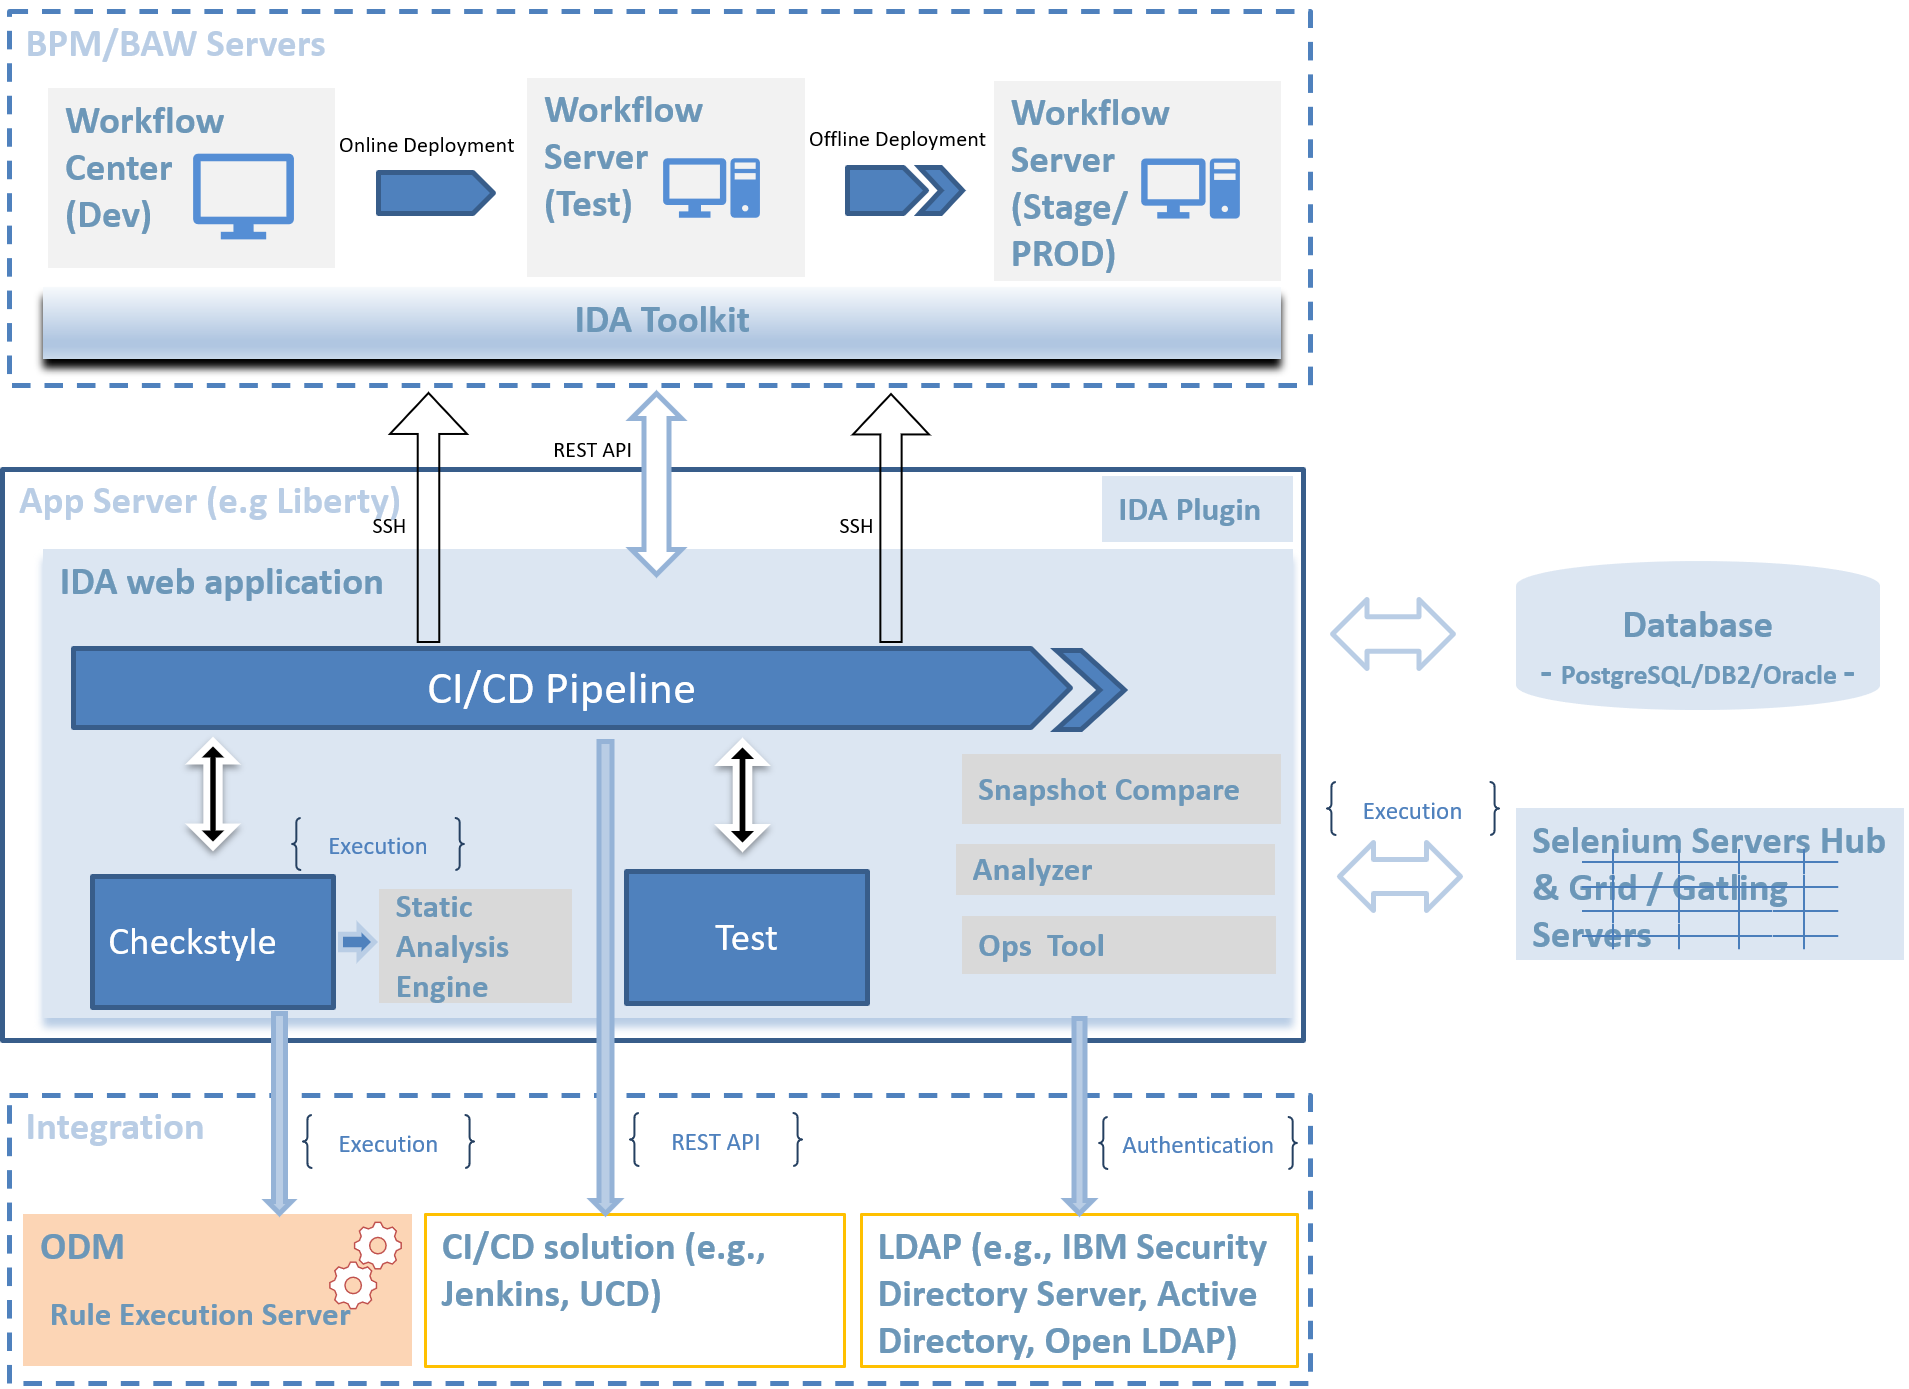
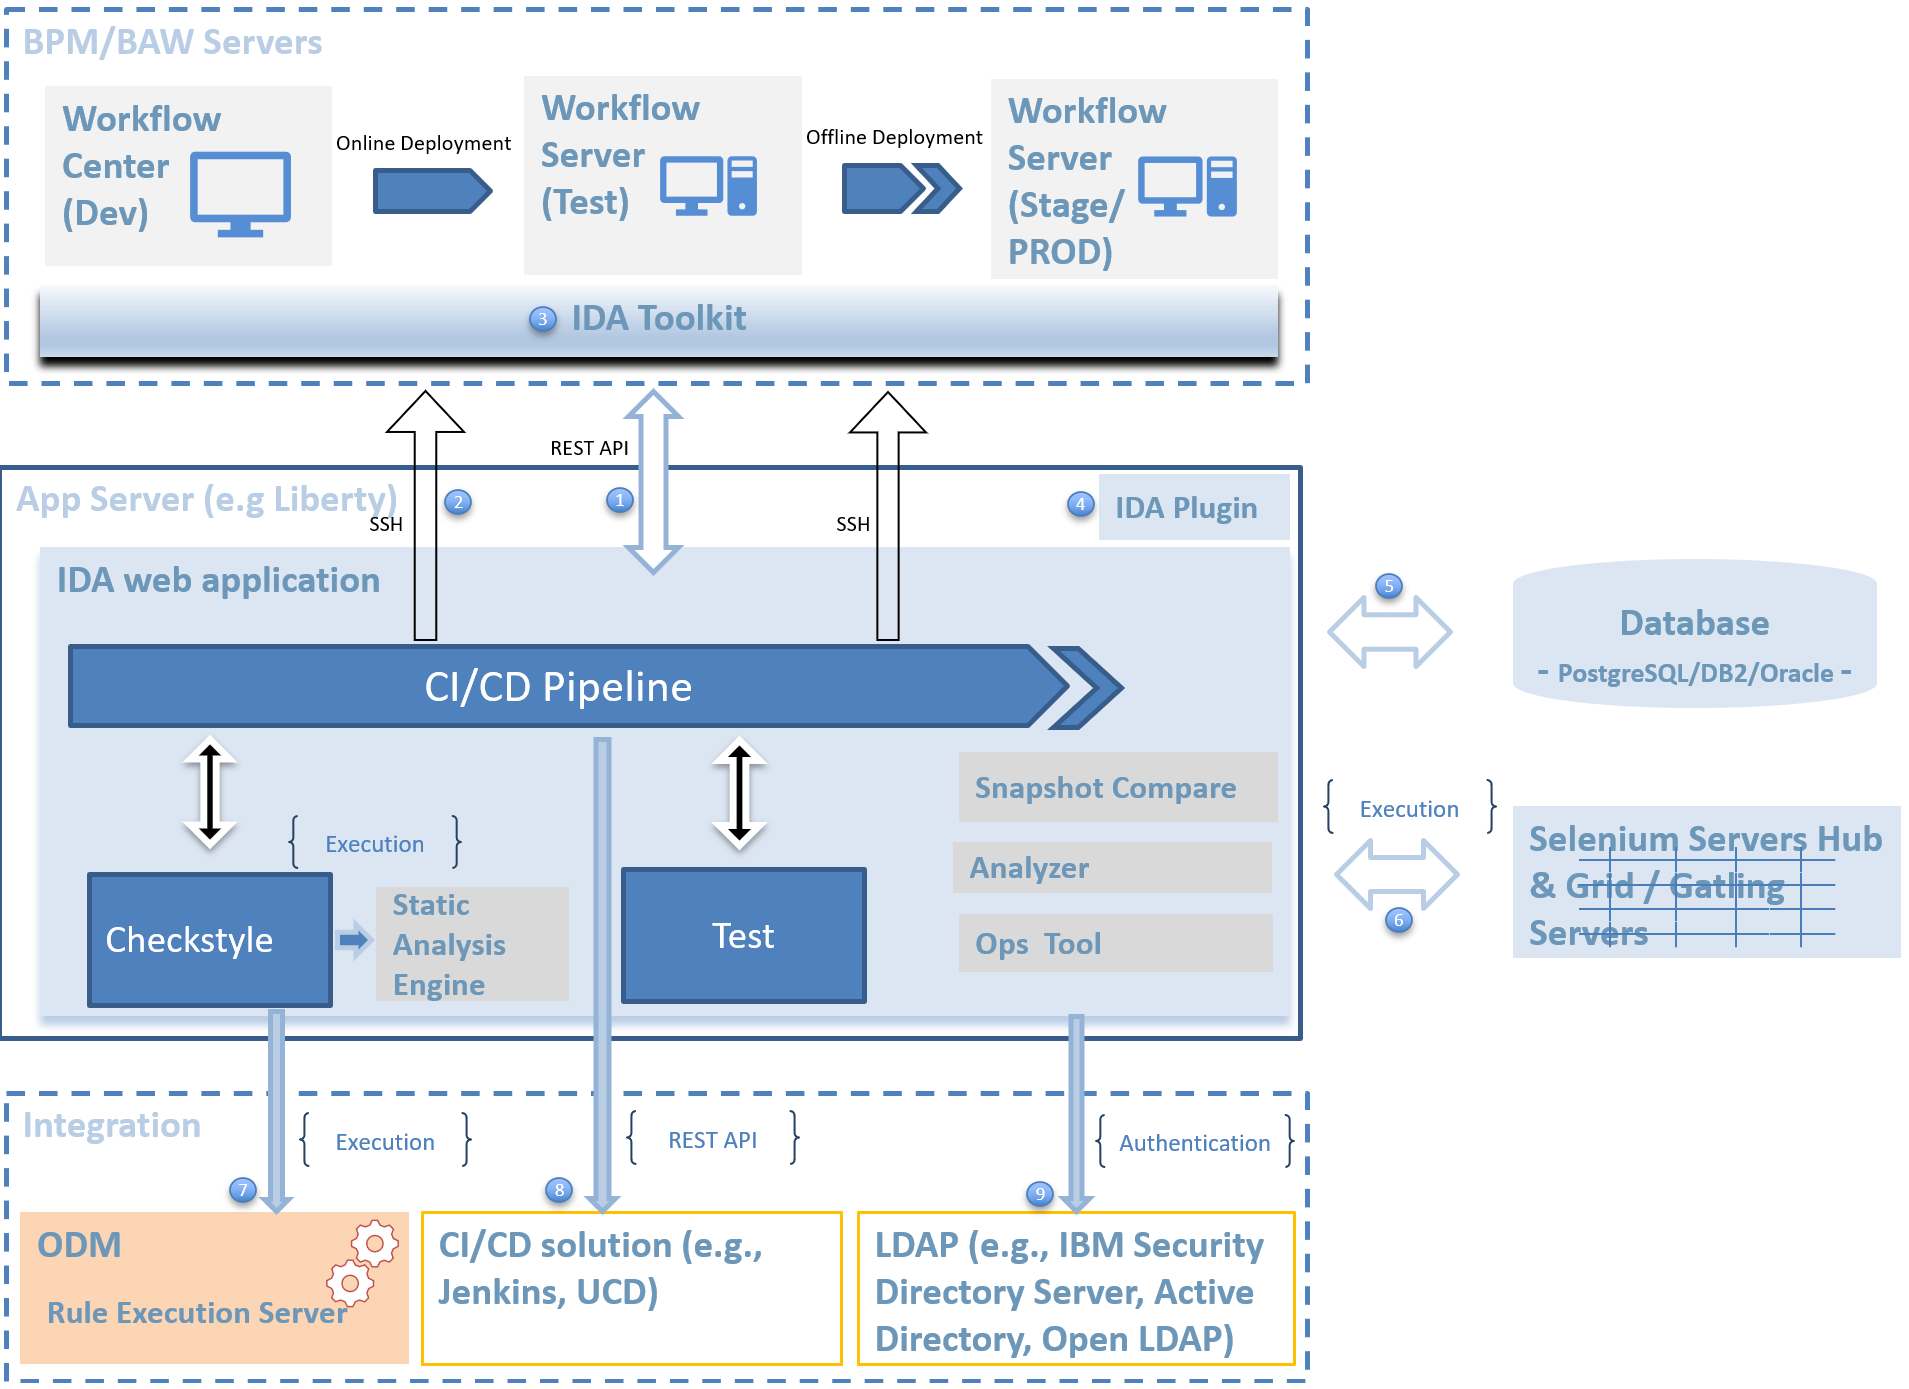
update artecheture

diff --git a/_posts/2018-08-01-references-architecture.md b/_posts/2018-08-01-references-architecture.md
@@ -11,12 +11,16 @@ order: 1
 
 ## Integration Architecture
 ![integration architecture](../images/architecture/integration_architecture_1.png)
-- IDA communications with BAW servers by REST API or SSH.
-- IDA connects to Database by TCP protocol.
-- IDA connects to Selenium Server by HTTP protocol.
-- IDA supports LDAP server for user authentication.
-- IDA provides [REST API](https://sdc-china.github.io/IDA-doc/references/references-apis.html) to support third party CI/CD tools. Basic authentication method is used to authorize IDA REST API access.
-- [IBM Operational Decision Manager](https://www.ibm.com/us-en/marketplace/operational-decision-manager) will be used to replace OOTB static analysis POJO engine so that all static analysis rules could be customized and managed outside IDA solution. IDA integrate with ODM by REST API.
+1. IDA communications with BAW servers by REST API
+2. SSH is needed to support IDA pipeline deployment feature, if the BAW server version is prior to version 18.0.0.
+3. To gain full function of testing feature, [IDA toolkit](https://sdc-china.github.io/IDA-doc/installation/installation-ida-installing.html#step-2-installing-ida-baw-toolkit) needs to be installed in the BAW application.
+4. To record and replay test case by using user browser, [IDA Plugin](https://sdc-china.github.io/IDA-doc/installation/installation-ida-installing.html#step-3-installing-ida-browser-plug-in) need to be installed in user's browser(Chrome or Firefox).
+5. IDA connects to Database by TCP protocol.
+6. IDA connects to Selenium Server by HTTP protocol.
+7. [IBM Operational Decision Manager](https://www.ibm.com/us-en/marketplace/operational-decision-manager) will be used to replace OOTB static analysis POJO engine so that all static analysis rules could be customized and managed outside IDA solution. IDA integrate with ODM by REST API. 
+8. IDA provides [REST API](https://sdc-china.github.io/IDA-doc/references/references-apis.html) to support third party CI/CD tools. Basic authentication method is used to authorize IDA REST API access.
+9. IDA supports LDAP server for user authentication.
+
 
 ## Deployment Architecture
 ![deployment architecture](../images/architecture/deployment_architecture
